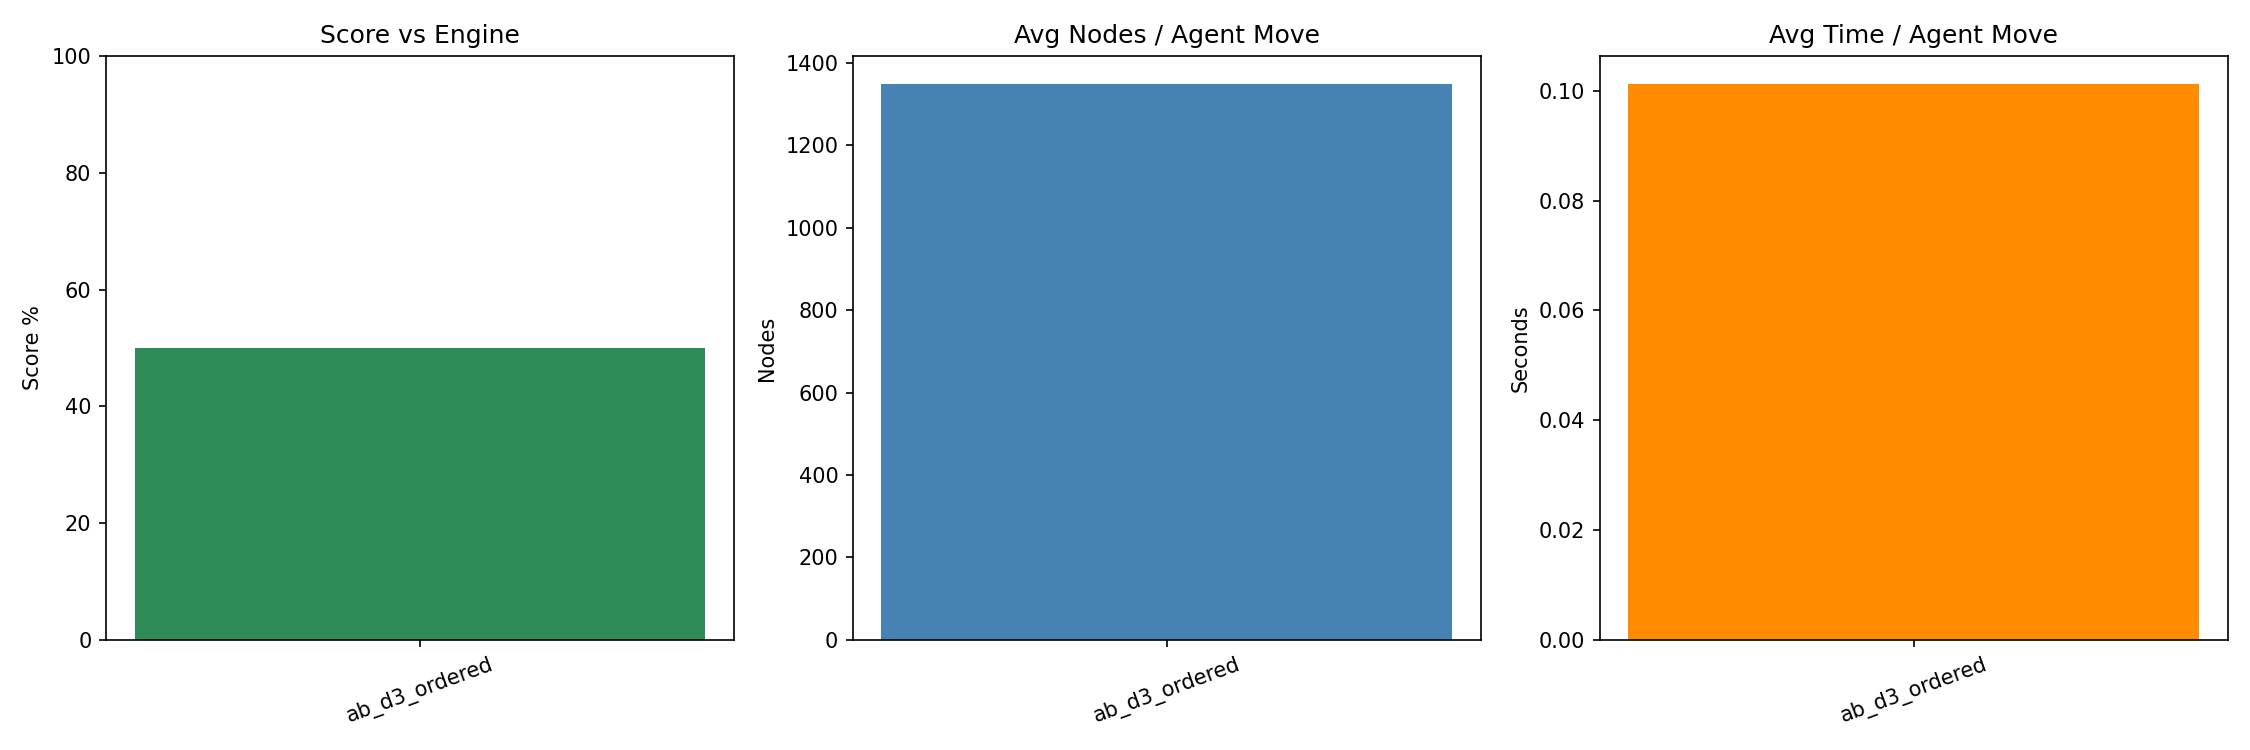
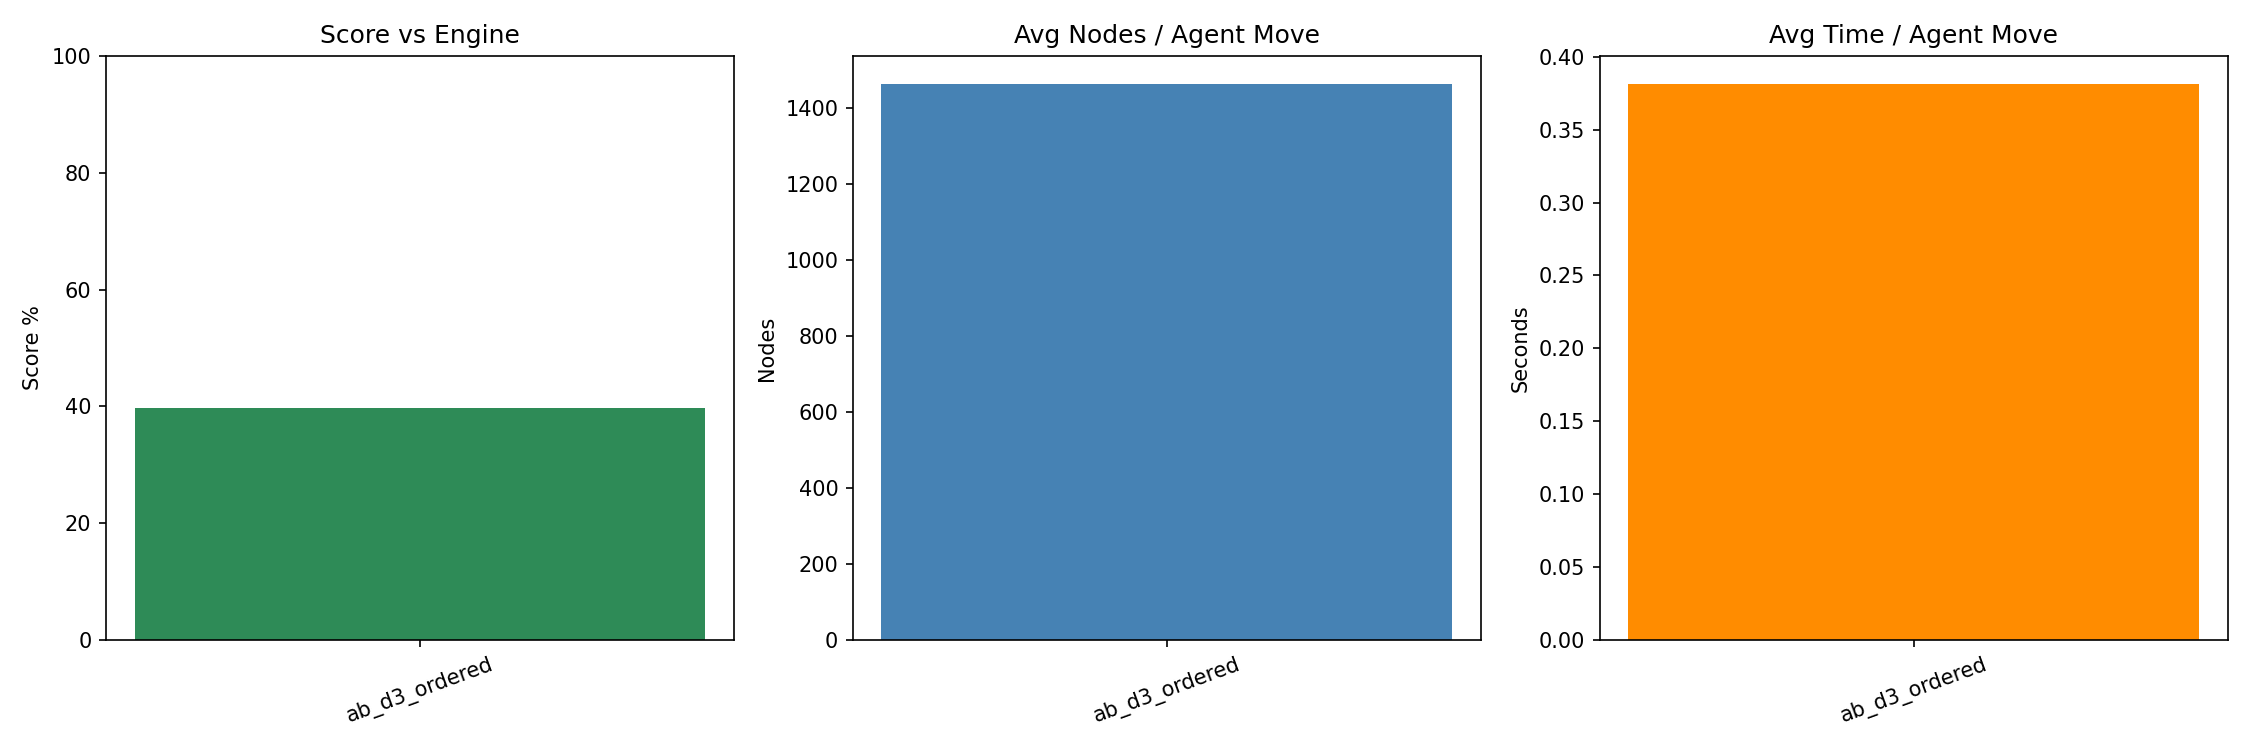
Changed vs_stockfish to use threads to paralelise chess games

diff --git a/benchmarks/vs_stockfish.py b/benchmarks/vs_stockfish.py
@@ -28,6 +28,9 @@ import argparse
 import csv
 from dataclasses import dataclass
 import math
+from multiprocessing import Pool
+import os
+import time
 
 import chess
 import chess.engine
@@ -37,6 +40,7 @@ from config.settings import (
     AGENT_CONFIGS,
     ENGINE_ELO,
     ENGINE_TIME,
+    MAX_WORKERS,
     NUM_OPENINGS,
     MAX_PLIES,
     VS_ENGINE_CSV,
@@ -338,6 +342,128 @@ def discover_engine_path():
     return None
 
 
+# ---------------------------------------------------------------------------
+# Multiprocessing worker helpers
+# ---------------------------------------------------------------------------
+
+_worker_engine = None
+_worker_limit = None
+
+
+def _init_worker(engine_path, engine_elo, engine_time):
+    """Initializer for each pool worker — spawns one Stockfish process."""
+    global _worker_engine, _worker_limit
+
+    _worker_engine = chess.engine.SimpleEngine.popen_uci(str(engine_path))
+
+    try:
+        _worker_engine.configure({"Threads": 1})
+    except chess.engine.EngineError:
+        pass
+
+    elo_opt = _worker_engine.options.get("UCI_Elo")
+    if elo_opt is not None:
+        elo_min = elo_opt.min or 0
+        elo_max = elo_opt.max or 9999
+        clamped = max(elo_min, min(elo_max, engine_elo))
+        try:
+            _worker_engine.configure({"UCI_LimitStrength": True, "UCI_Elo": clamped})
+        except chess.engine.EngineError:
+            pass
+
+    _worker_limit = chess.engine.Limit(time=engine_time)
+
+
+def _play_game_task(indexed_task):
+    """Worker function — plays a single game using the process-local engine."""
+    idx, (preset, opening_name, opening_fen, agent_color, max_plies) = indexed_task
+    record = play_game(
+        _worker_engine, preset, opening_name, opening_fen,
+        agent_color, _worker_limit, max_plies,
+    )
+    return idx, record
+
+
+# ---------------------------------------------------------------------------
+# Progress bar
+# ---------------------------------------------------------------------------
+
+def _print_progress(done, total, start_time):
+    elapsed = time.perf_counter() - start_time
+    pct = done / total if total > 0 else 1.0
+    bar_len = 30
+    filled = int(bar_len * pct)
+    bar = "\u2588" * filled + "\u2591" * (bar_len - filled)
+
+    mins, secs = divmod(int(elapsed), 60)
+    elapsed_str = f"{mins}m {secs:02d}s" if mins else f"{secs}s"
+
+    if done > 0 and done < total:
+        eta = elapsed * (total - done) / done
+        eta_m, eta_s = divmod(int(eta), 60)
+        eta_str = f"{eta_m}m {eta_s:02d}s" if eta_m else f"{eta_s}s"
+    elif done >= total:
+        eta_str = "0s"
+    else:
+        eta_str = "..."
+
+    sys.stdout.write(
+        f"\r  Playing games  [{bar}] {done}/{total}  "
+        f"elapsed: {elapsed_str}  ETA: {eta_str}   "
+    )
+    sys.stdout.flush()
+
+
+# ---------------------------------------------------------------------------
+# Validation (runs once in the main process before spawning workers)
+# ---------------------------------------------------------------------------
+
+def _validate_engine(engine_path, requested_elo):
+    """Spawn a temporary engine to check UCI options and print warnings."""
+    engine = chess.engine.SimpleEngine.popen_uci(str(engine_path))
+    clamped_elo = requested_elo
+    try:
+        elo_opt = engine.options.get("UCI_Elo")
+        if elo_opt is not None:
+            elo_min = elo_opt.min or 0
+            elo_max = elo_opt.max or 9999
+            clamped_elo = max(elo_min, min(elo_max, requested_elo))
+            if clamped_elo != requested_elo:
+                print(
+                    f"Warning: requested Elo {requested_elo} is outside engine range "
+                    f"[{elo_min}, {elo_max}]. Clamping to {clamped_elo}."
+                )
+        else:
+            print("Warning: this engine does not support UCI_LimitStrength/UCI_Elo; engine runs at full strength.")
+    finally:
+        engine.quit()
+    return clamped_elo
+
+
+# ---------------------------------------------------------------------------
+# Per-game result printing (after all games finish)
+# ---------------------------------------------------------------------------
+
+def _print_game_results(records, presets):
+    for preset in presets:
+        print(
+            f"[{preset.name}] depth={preset.config.depth}, "
+            f"alpha_beta={preset.config.use_alpha_beta}, "
+            f"move_ordering={preset.config.move_ordering}"
+        )
+        for record in records:
+            if record.preset_name != preset.name:
+                continue
+            print(
+                f"  {record.opening_name:<28} "
+                f"agent={record.agent_color:<5} "
+                f"result={record.outcome:<9} "
+                f"plies={record.plies:<3} "
+                f"avg_nodes={record.agent_avg_nodes:.0f}"
+            )
+        print()
+
+
 def main():
     parser = argparse.ArgumentParser(
         description="Benchmark this chess agent against a UCI engine."
@@ -391,6 +517,12 @@ def main():
         action="store_true",
         help="Display the matplotlib window after saving the summary plot.",
     )
+    parser.add_argument(
+        "--workers",
+        type=int,
+        default=MAX_WORKERS,
+        help=f"Number of parallel worker processes. (default: {MAX_WORKERS or 'CPU count'})",
+    )
     args = parser.parse_args()
 
     presets = [parse_config_spec(spec) for spec in args.config] if args.config else build_default_presets()
@@ -403,75 +535,65 @@ def main():
             "No engine executable found. Put Stockfish in stockfish/ or pass --engine-path."
         )
 
+    # Build the flat list of game tasks.
+    tasks = [
+        (preset, opening_name, opening_fen, agent_color, args.max_plies)
+        for preset in presets
+        for opening_name, opening_fen in openings
+        for agent_color in (chess.WHITE, chess.BLACK)
+    ]
+
+    num_workers = min(args.workers or os.cpu_count() or 1, len(tasks))
+
+    # Validate engine options once (prints warnings) before spawning workers.
+    clamped_elo = _validate_engine(engine_path, args.engine_elo)
+
     print("Benchmarking agent against external engine")
     print(f"Engine path:          {engine_path}")
-    print(f"Engine target Elo:    {args.engine_elo}")
+    print(f"Engine target Elo:    {clamped_elo}")
     print(f"Engine time per move: {args.engine_time:.3f}s")
     print(f"Openings tested:      {len(openings)}")
     print(f"Configs tested:       {len(presets)}")
+    print(f"Total games:          {len(tasks)}")
+    print(f"Worker processes:     {num_workers}")
     print()
 
-    records = []
-    engine = chess.engine.SimpleEngine.popen_uci(str(engine_path))
-    try:
-        configure_options = {"Threads": 1}
-        try:
-            engine.configure(configure_options)
-        except chess.engine.EngineError:
-            pass
+    # Map from task index -> record so we can reconstruct insertion order.
+    results_by_index = {}
+    start_time = time.perf_counter()
 
-        elo_opt = engine.options.get("UCI_Elo")
-        if elo_opt is not None:
-            elo_min = elo_opt.min or 0
-            elo_max = elo_opt.max or 9999
-            clamped_elo = max(elo_min, min(elo_max, args.engine_elo))
-            if clamped_elo != args.engine_elo:
-                print(
-                    f"Warning: requested Elo {args.engine_elo} is outside engine range "
-                    f"[{elo_min}, {elo_max}]. Clamping to {clamped_elo}."
-                )
-            try:
-                engine.configure({"UCI_LimitStrength": True, "UCI_Elo": clamped_elo})
-            except chess.engine.EngineError as e:
-                print(f"Warning: could not set UCI_LimitStrength/UCI_Elo ({e}); engine runs at full strength.")
-        else:
-            print("Warning: this engine does not support UCI_LimitStrength/UCI_Elo; engine runs at full strength.")
+    pool = Pool(
+        processes=num_workers,
+        initializer=_init_worker,
+        initargs=(str(engine_path), clamped_elo, args.engine_time),
+    )
 
-        engine_limit = chess.engine.Limit(time=args.engine_time)
+    indexed_tasks = list(enumerate(tasks))
+    _print_progress(0, len(tasks), start_time)
+    for idx, record in pool.imap_unordered(_play_game_task, indexed_tasks):
+        results_by_index[idx] = record
+        _print_progress(len(results_by_index), len(tasks), start_time)
 
-        for preset in presets:
-            print(
-                f"[{preset.name}] depth={preset.config.depth}, "
-                f"alpha_beta={preset.config.use_alpha_beta}, "
-                f"move_ordering={preset.config.move_ordering}"
-            )
-            for opening_name, opening_fen in openings:
-                for agent_color in (chess.WHITE, chess.BLACK):
-                    record = play_game(
-                        engine,
-                        preset,
-                        opening_name,
-                        opening_fen,
-                        agent_color,
-                        engine_limit,
-                        args.max_plies,
-                    )
-                    records.append(record)
-                    print(
-                        f"  {opening_name:<28} "
-                        f"agent={record.agent_color:<5} "
-                        f"result={record.outcome:<9} "
-                        f"plies={record.plies:<3} "
-                        f"avg_nodes={record.agent_avg_nodes:.0f}"
-                    )
-            print()
-    finally:
-        engine.quit()
+    pool.terminate()
+    pool.join()
+
+    # Clear the progress line.
+    sys.stdout.write("\r" + " " * 80 + "\r")
+    sys.stdout.flush()
+
+    # Rebuild records in the original deterministic order.
+    records = [results_by_index[i] for i in range(len(tasks))]
+
+    total_elapsed = time.perf_counter() - start_time
+    mins, secs = divmod(int(total_elapsed), 60)
+    print(f"All {len(records)} games finished in {mins}m {secs:02d}s.\n")
+
+    _print_game_results(records, presets)
 
     write_csv(records, output_path)
     summaries = collect_summaries(records, presets)
 
-    print_summary_table(summaries, args.engine_elo)
+    print_summary_table(summaries, clamped_elo)
     plot_summaries(summaries, Path(args.plot_output), args.show_plot)
 
     print()

diff --git a/config/settings.py b/config/settings.py
@@ -32,9 +32,10 @@ INTERNAL_PLOT_OUTPUT = "internal_benchmark.png"
 # ---------------------------------------------------------------------------
 # Stockfish benchmark (agent strength vs external engine)
 # ---------------------------------------------------------------------------
+MAX_WORKERS      = None        # max parallel worker processes for vs_stockfish (None = all CPU cores)
 ENGINE_ELO       = 1320    # target Elo for Stockfish — minimum supported by this build is 1320
 ENGINE_TIME      = 0.05     # seconds per engine move
-NUM_OPENINGS     = 6        # number of opening positions to test (from config/openings.py)
+NUM_OPENINGS     = 50        # number of opening positions to test (from config/openings.py)
 MAX_PLIES        = 300      # truncate game after this many half-moves (avoids infinite draws)
 VS_ENGINE_CSV    = "engine_benchmark_results.csv"
 VS_ENGINE_PLOT   = "engine_benchmark_summary.png"
